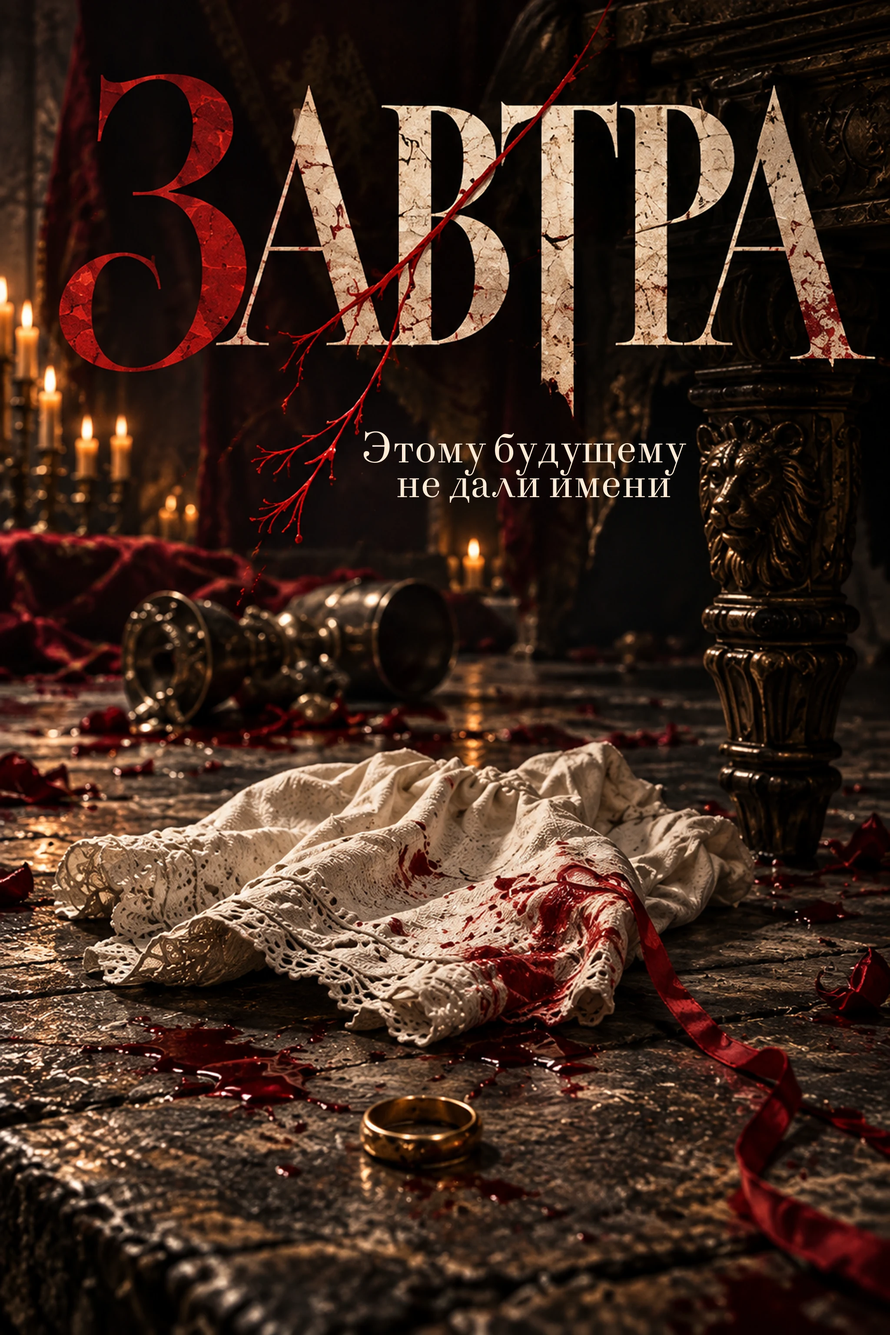
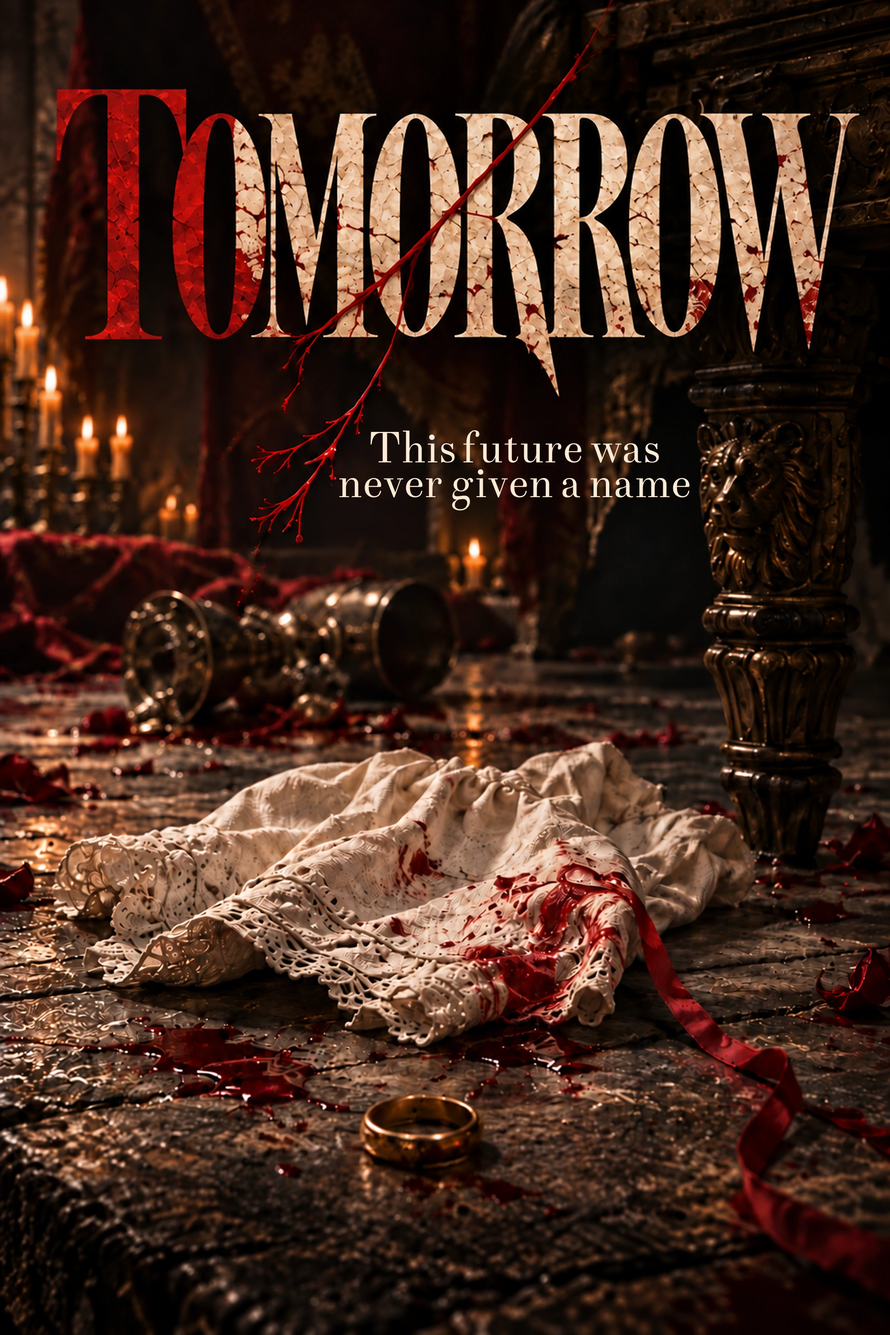
Use English Feast posters across portfolio

diff --git a/a-feast-without-tomorrow.html b/a-feast-without-tomorrow.html
@@ -8,7 +8,7 @@
 <body>
   <header><div class="wrap header-row"><a class="logo" href="index.html"><span class="logo-text">anestiiz</span><img class="logo-a" src="assets/anestiiz-mark.svg" alt=""></a><nav aria-label="Primary"><a href="index.html#experience">My experience</a><a href="index.html#about">About</a><a href="index.html#ai">Me & AI</a></nav><div class="header-right"><a class="talk-link" href="brief.html">Discuss a Project <img class="icon-arrow-up light" src="Icons/Arrow Right Up.svg" alt=""></a></div></div></header>
   <main id="top" class="banner-case"><section class="wrap banner-case-intro reveal"><a class="runner-back" href="banners.html">← All Social Media projects</a><div class="hero-menu-eyebrow">Poster series · 2026</div><h1>A FEAST WITHOUT <em>TOMORROW</em></h1><div class="banner-case-copy"><p>A series of four posters inspired by the Red Wedding. Here, the celebration becomes a trap: the invitation promises safety, trust collapses, the future is cut short, and in the end only a mother remains among the extinguished candles.</p><p>A red thread runs through all four works. It binds those who came to the feast together, then snaps at the moment when nothing can be undone.</p></div></section>
-    <section class="wrap banner-poster-grid" aria-label="A Feast Without Tomorrow poster series"><figure class="reveal"><button class="poster-open" type="button"><img src="assets/banners/a-feast-without-tomorrow/invitation.webp" alt="Invitation — they called it a celebration" loading="eager"></button><figcaption>Invitation</figcaption></figure><figure class="reveal"><button class="poster-open" type="button"><img src="assets/banners/a-feast-without-tomorrow/trust.webp" alt="Trust — betrayal sat beside them" loading="lazy"></button><figcaption>Trust</figcaption></figure><figure class="reveal"><button class="poster-open" type="button"><img src="assets/banners/a-feast-without-tomorrow/tomorrow.webp" alt="Tomorrow — this future was never given a name" loading="lazy"></button><figcaption>Tomorrow</figcaption></figure><figure class="reveal"><button class="poster-open" type="button"><img src="assets/banners/a-feast-without-tomorrow/silence.webp" alt="Silence — she was left only to watch" loading="lazy"></button><figcaption>Silence</figcaption></figure></section>
+    <section class="wrap banner-poster-grid" aria-label="A Feast Without Tomorrow poster series"><figure class="reveal"><button class="poster-open" type="button"><img src="assets/banners/a-feast-without-tomorrow/invitation-en.webp" alt="Invitation — they called it a celebration" loading="eager"></button><figcaption>Invitation</figcaption></figure><figure class="reveal"><button class="poster-open" type="button"><img src="assets/banners/a-feast-without-tomorrow/trust-en.webp" alt="Trust — betrayal sat beside them" loading="lazy"></button><figcaption>Trust</figcaption></figure><figure class="reveal"><button class="poster-open" type="button"><img src="assets/banners/a-feast-without-tomorrow/tomorrow-en.webp" alt="Tomorrow — this future was never given a name" loading="lazy"></button><figcaption>Tomorrow</figcaption></figure><figure class="reveal"><button class="poster-open" type="button"><img src="assets/banners/a-feast-without-tomorrow/silence-en.webp" alt="Silence — she was left only to watch" loading="lazy"></button><figcaption>Silence</figcaption></figure></section>
     <dialog class="poster-lightbox"><button class="poster-lightbox-close" type="button" aria-label="Close">×</button><img src="" alt=""></dialog></main>
   <footer><div>© 2026 anestiiz &nbsp; Designed with intention.</div><a class="top" href="#top">Back to top ↑</a><a class="ai" href="banners.html">All Social Media projects →</a></footer>
   <script>const observer=new IntersectionObserver(entries=>entries.forEach(entry=>{if(entry.isIntersecting){entry.target.classList.add('visible');observer.unobserve(entry.target)}}),{threshold:0,rootMargin:'0px 0px -6% 0px'});document.querySelectorAll('.reveal').forEach(el=>observer.observe(el));const lightbox=document.querySelector('.poster-lightbox');const lightboxImage=lightbox.querySelector('img');document.querySelectorAll('.poster-open').forEach(button=>button.addEventListener('click',()=>{const image=button.querySelector('img');lightboxImage.src=image.src;lightboxImage.alt=image.alt;lightbox.showModal()}));lightbox.querySelector('.poster-lightbox-close').addEventListener('click',()=>lightbox.close());lightbox.addEventListener('click',event=>{if(event.target===lightbox)lightbox.close()});</script>

diff --git a/index.html b/index.html
@@ -75,7 +75,7 @@
     <section id="portfolio-orbit" class="portfolio-orbit wrap" aria-label="Portfolio categories" data-orbit-gallery>
       <div class="orbit-stage">
         <div class="orbit-controls"><button type="button" data-orbit-prev aria-label="Previous category">←</button><button type="button" data-orbit-next aria-label="Next category">→</button></div>
-        <article class="orbit-panel is-active" data-orbit-panel data-title="Social Media" data-href="/banners.html"><div class="orbit-fan"><figure><img src="/assets/banners/shum-duo.webp" alt="SHUM campaign" loading="eager" decoding="sync" fetchpriority="high"></figure><figure><img src="/assets/banners/feast-no-tomorrow/invitation.webp" alt="A Feast Without Tomorrow"></figure><figure><img src="/assets/banners/worlds/moonbloom.webp" alt="Moonbloom poster"></figure></div></article>
+        <article class="orbit-panel is-active" data-orbit-panel data-title="Social Media" data-href="/banners.html"><div class="orbit-fan"><figure><img src="/assets/banners/shum-duo.webp" alt="SHUM campaign" loading="eager" decoding="sync" fetchpriority="high"></figure><figure><img src="/assets/banners/feast-no-tomorrow/invitation-en.webp" alt="A Feast Without Tomorrow"></figure><figure><img src="/assets/banners/worlds/moonbloom.webp" alt="Moonbloom poster"></figure></div></article>
         <article class="orbit-panel" data-orbit-panel data-title="AI Creative" data-href="/ai-creative.html"><div class="orbit-fan"><figure><video src="/assets/greekly-promo/2.mp4" autoplay muted loop playsinline preload="auto" poster="/assets/greekly-promo/2-poster.webp" aria-label="Greekly AI video"></video></figure><figure><video src="/assets/bruschetta-recipe/video.mp4" autoplay muted loop playsinline preload="auto" poster="/assets/bruschetta-recipe/poster.webp" aria-label="AI cooking video"></video></figure><figure><video src="/assets/greekly-promo/4.mp4" autoplay muted loop playsinline preload="auto" poster="/assets/greekly-promo/4-poster.webp" aria-label="Greekly AI promo"></video></figure></div></article>
         <article class="orbit-panel" data-orbit-panel data-title="Mobile Apps" data-href="/apps.html"><div class="orbit-fan"><figure><img src="/assets/greekly/Cover.webp" alt="Greekly app"></figure><figure><img src="/assets/lume/Cover.webp" alt="Lumé app"></figure><figure><img src="/assets/bloat-down/Cover.webp" alt="Bloat Down app"></figure></div></article>
         <article class="orbit-panel" data-orbit-panel data-title="Websites" data-href="/websites.html"><div class="orbit-fan"><figure><img src="/sites/lacque/hero-pink.webp" alt="LACQUÉ website"></figure><figure><img src="/sites/noir-rouge/hero.webp" alt="NOIR ROUGE website"></figure><figure><img src="/sites/altero-clinic/cover.webp" alt="Altero website"></figure></div></article>

diff --git a/banners.html b/banners.html
@@ -20,7 +20,7 @@
         <div class="banner-project-meta"><h2>SHUM — MAKE SOME NOISE</h2><span>Social campaign · Creative direction · 2026</span></div>
       </article>
       <article class="banner-project reveal">
-        <a class="banner-project-cover" href="/a-feast-without-tomorrow.html" aria-label="Open the A Feast Without Tomorrow project"><img src="/assets/banners/feast-no-tomorrow/invitation.webp" alt="Invitation poster from A Feast Without Tomorrow"></a>
+        <a class="banner-project-cover" href="/a-feast-without-tomorrow.html" aria-label="Open the A Feast Without Tomorrow project"><img src="/assets/banners/feast-no-tomorrow/invitation-en.webp" alt="Invitation poster from A Feast Without Tomorrow"></a>
         <div class="banner-project-meta"><h2>A FEAST WITHOUT TOMORROW</h2><span>Poster series · 2026</span></div>
       </article>
       <div class="banner-single-grid" aria-label="Individual posters">
